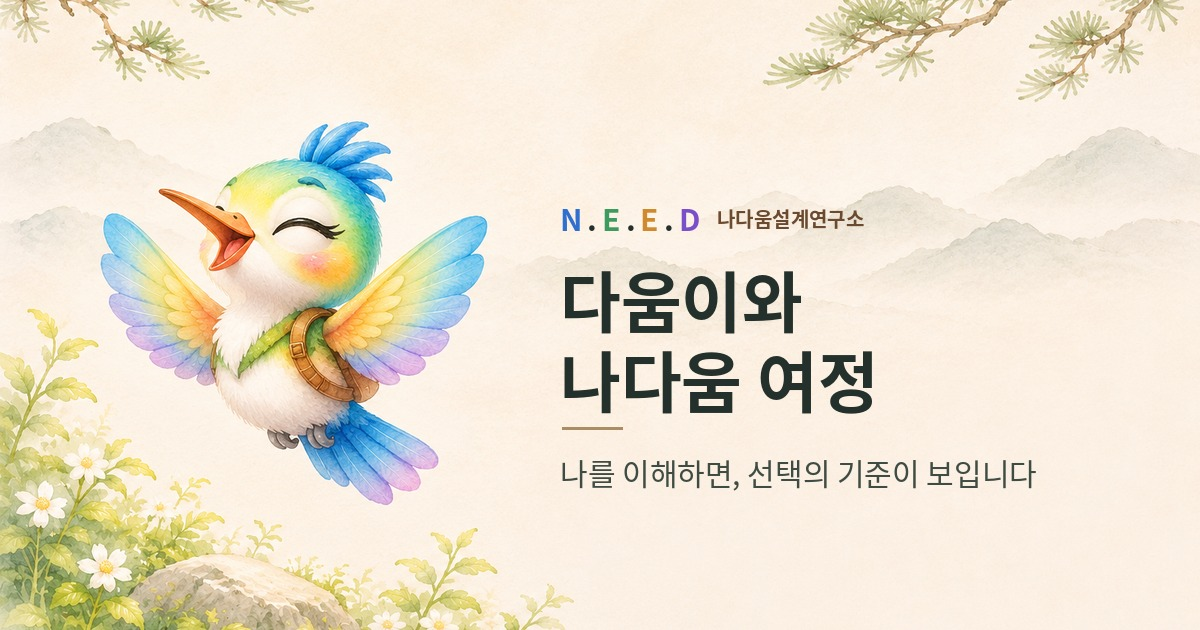
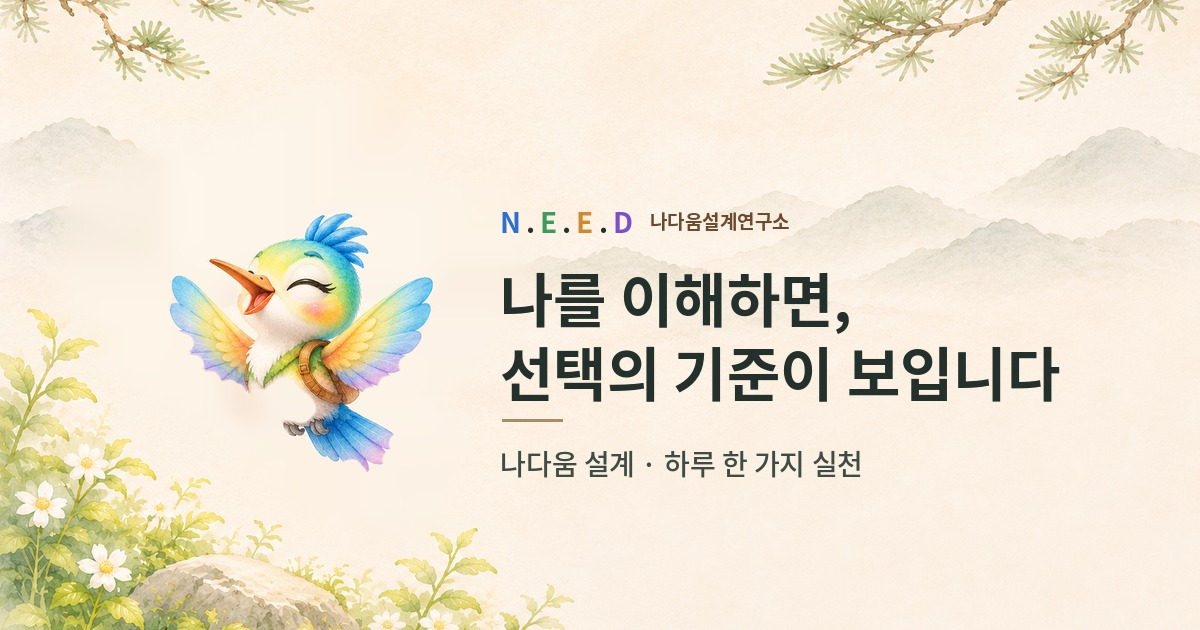
Add files via upload

Changed region(s): [[0.0617, 0.181, 0.8942, 0.8143]]

diff --git a/App/index.html b/App/index.html
@@ -7,7 +7,7 @@
 <meta name="description" content="짧은 질문과 하루 한 가지 실천으로, 선택의 기준을 찾아가요">
 <meta property="og:type" content="website">
 <meta property="og:url" content="https://nadaumlap.github.io/nadaumneed/app/">
-<meta property="og:title" content="다움이와 나다움 여정">
+<meta property="og:title" content="나다움 설계 | 선택의 기준을 찾는 앱">
 <meta property="og:description" content="짧은 질문과 하루 한 가지 실천으로, 선택의 기준을 찾아가요">
 <meta property="og:image" content="https://nadaumlap.github.io/nadaumneed/app/og-image.jpg">
 <meta property="og:image:width" content="1200">
